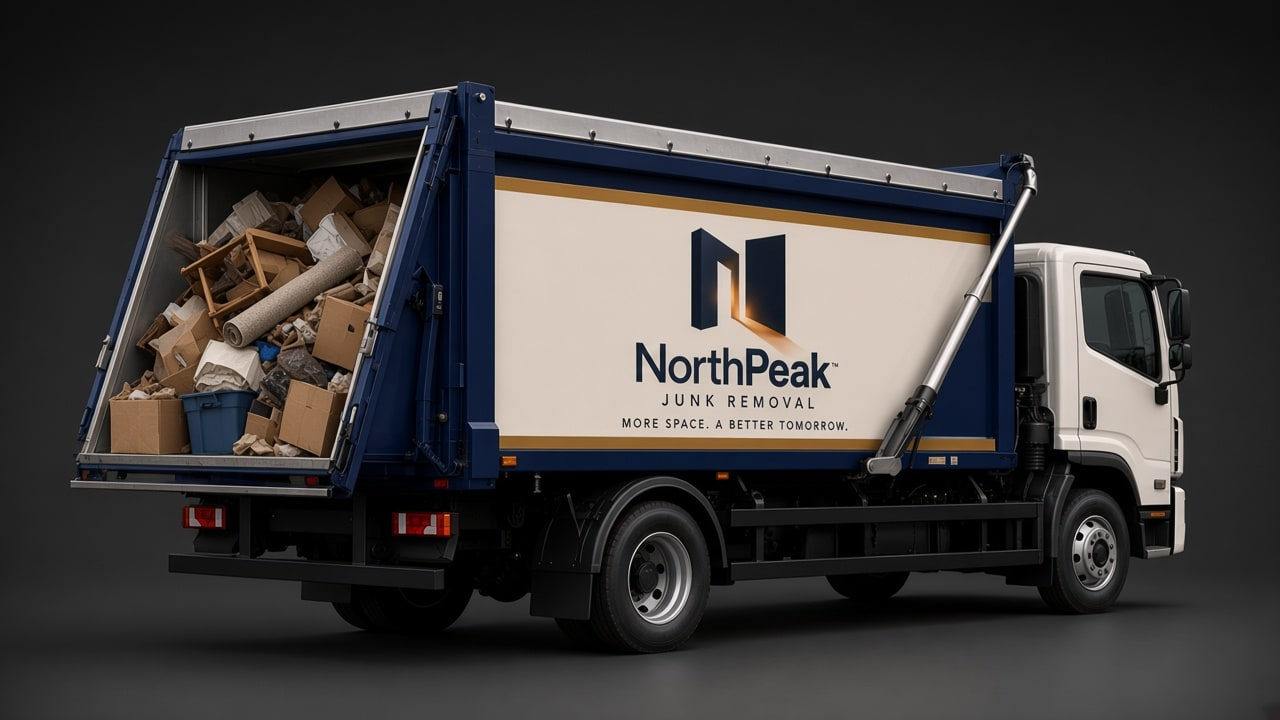
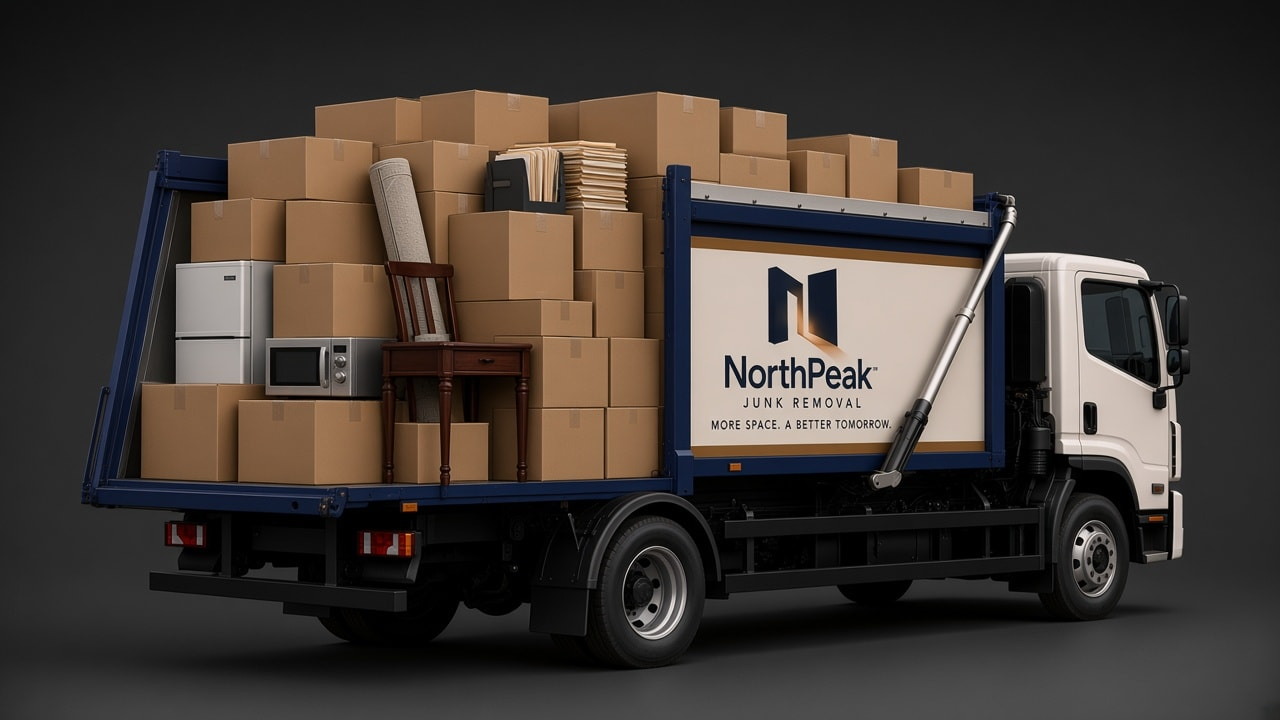
Fix fill truck images: flush rear, roof, clean garage/office loads.

diff --git a/src/content/truck.ts b/src/content/truck.ts
@@ -40,7 +40,7 @@ export const volumeLevels: VolumeLevel[] = [
     fill: 25,
     cubicFeet: 40,
     visitLabel: "Short visit",
-    fillSrc: "/truck/junk-fill-25.jpg?v=2",
+    fillSrc: "/truck/junk-fill-25.jpg?v=3",
   },
   {
     id: "room",
@@ -49,7 +49,7 @@ export const volumeLevels: VolumeLevel[] = [
     fill: 50,
     cubicFeet: 110,
     visitLabel: "Standard visit",
-    fillSrc: "/truck/junk-fill-50.jpg?v=2",
+    fillSrc: "/truck/junk-fill-50.jpg?v=3",
   },
   {
     id: "garage",
@@ -58,7 +58,7 @@ export const volumeLevels: VolumeLevel[] = [
     fill: 75,
     cubicFeet: 200,
     visitLabel: "Full crew visit",
-    fillSrc: "/truck/junk-fill-75.jpg?v=2",
+    fillSrc: "/truck/junk-fill-75.jpg?v=3",
   },
   {
     id: "home",
@@ -67,7 +67,7 @@ export const volumeLevels: VolumeLevel[] = [
     fill: 100,
     cubicFeet: 300,
     visitLabel: "Extended visit",
-    fillSrc: "/truck/junk-fill-100.jpg?v=2",
+    fillSrc: "/truck/junk-fill-100.jpg?v=3",
   },
 ];
 
